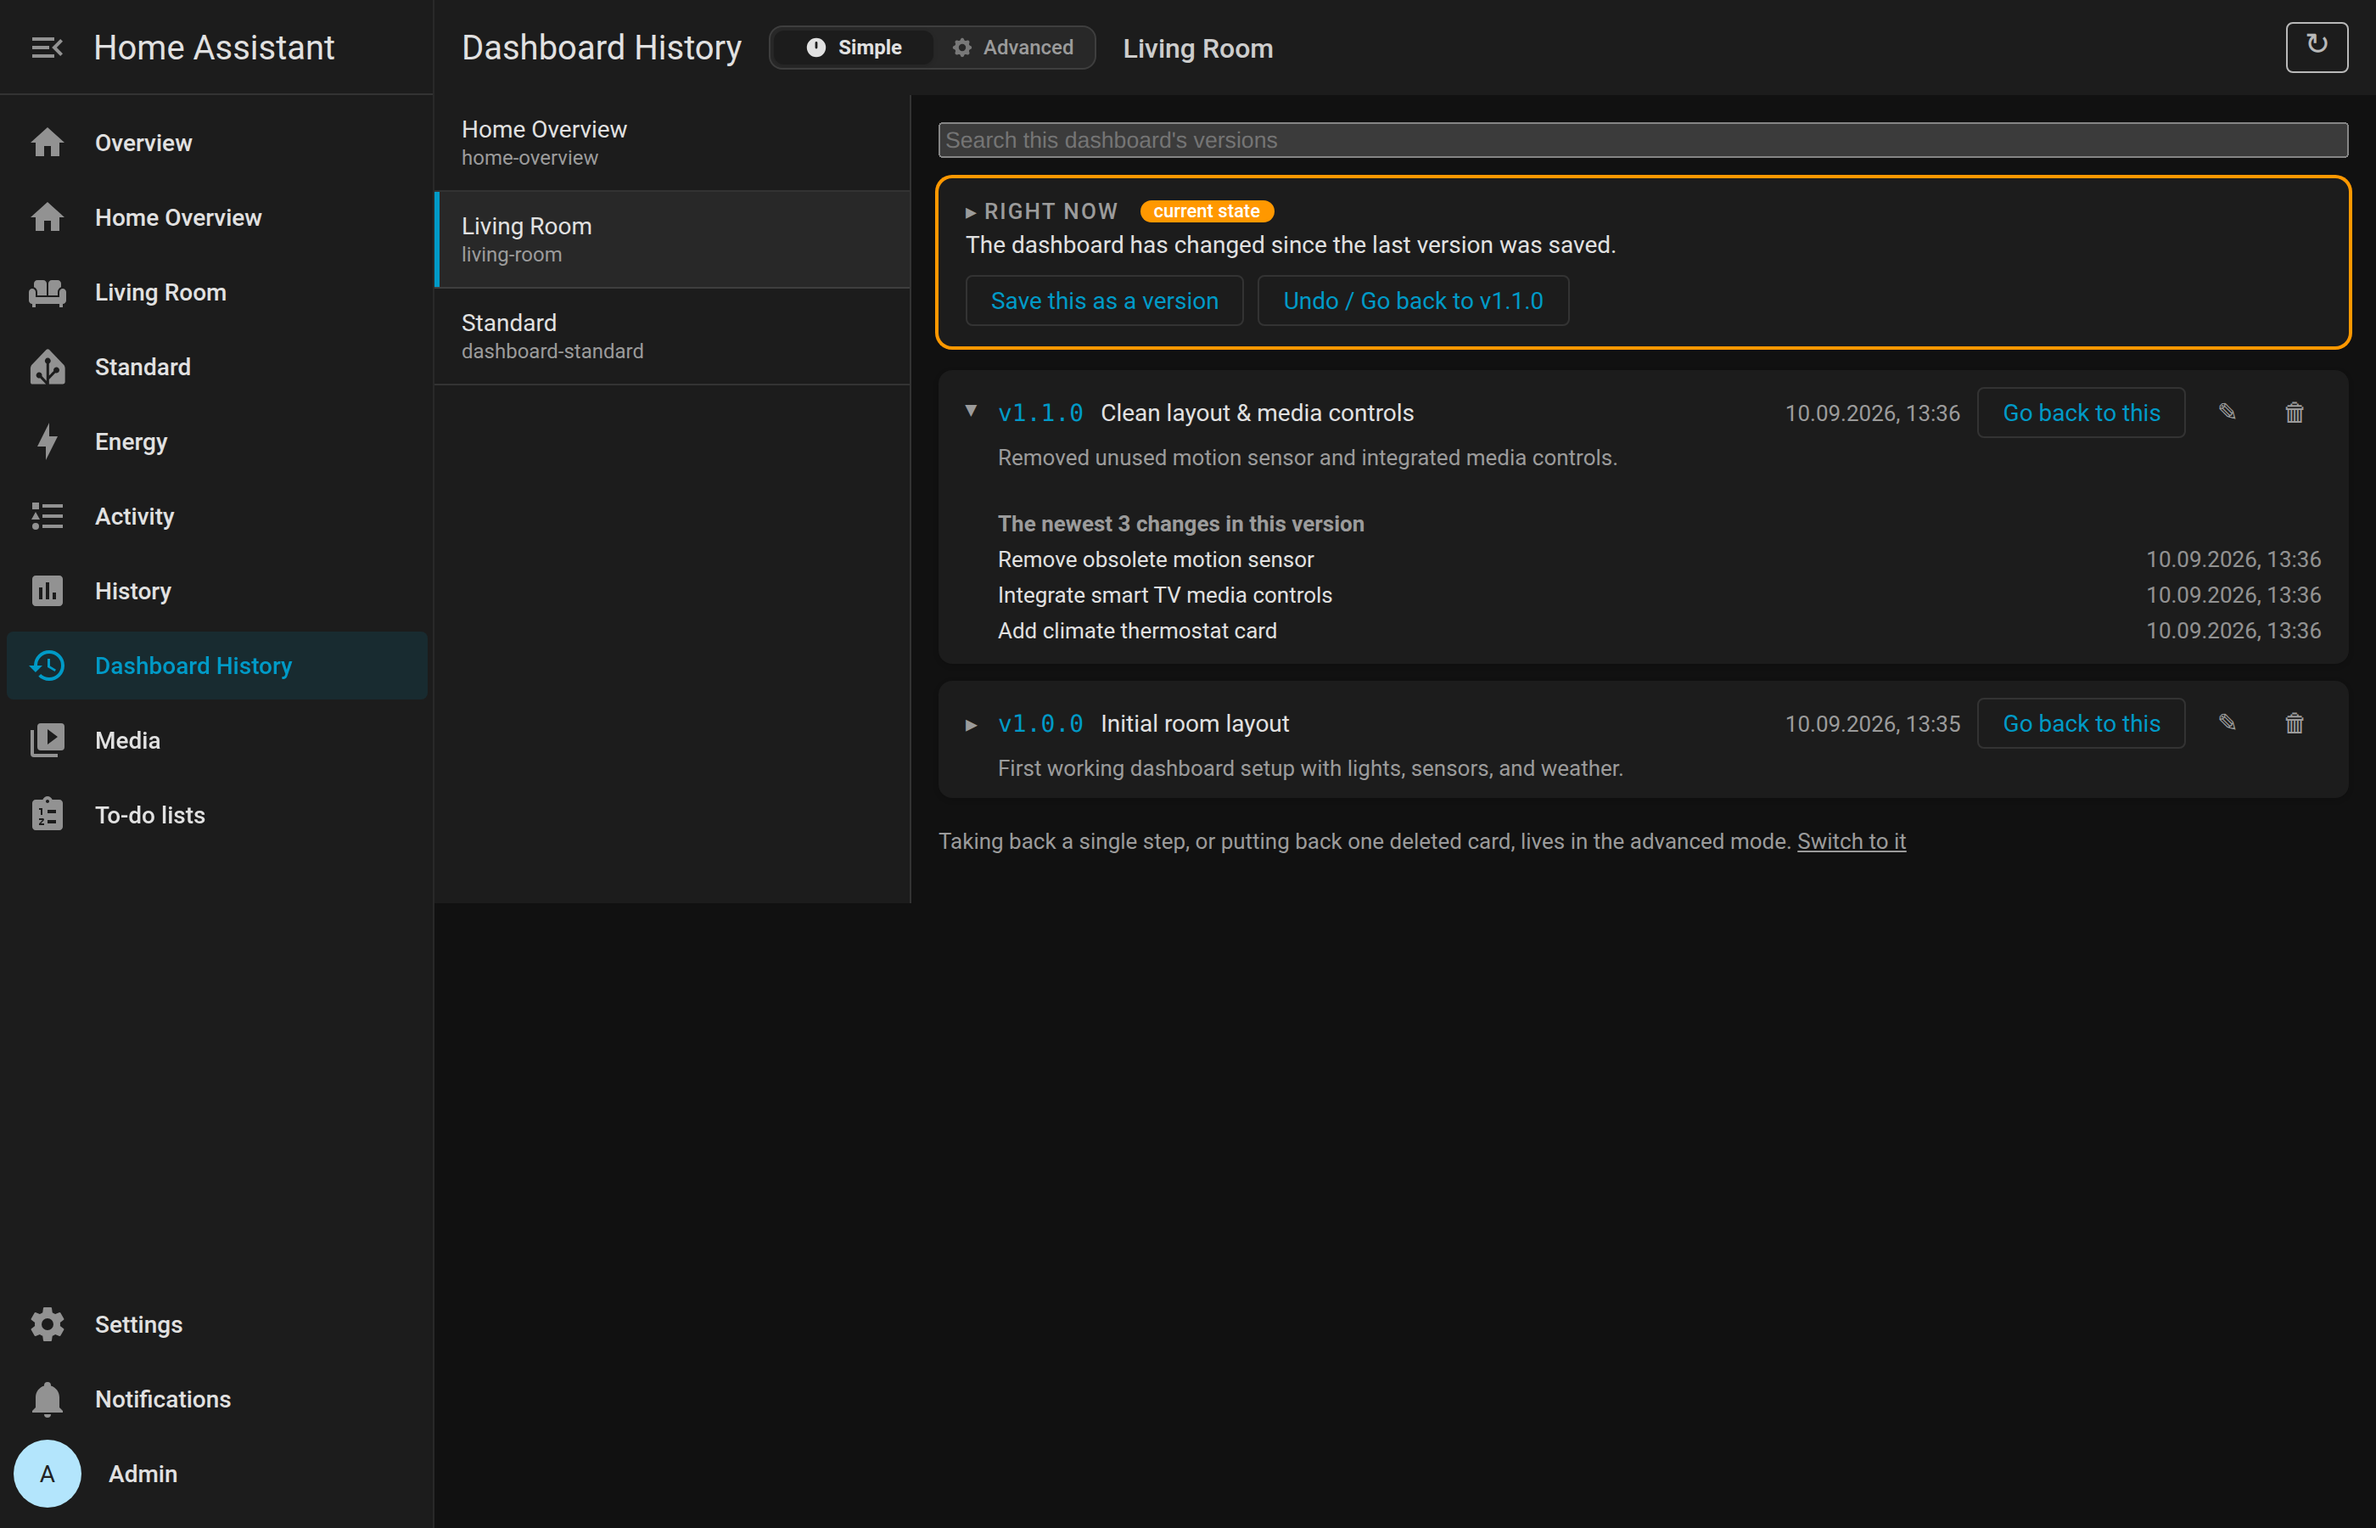
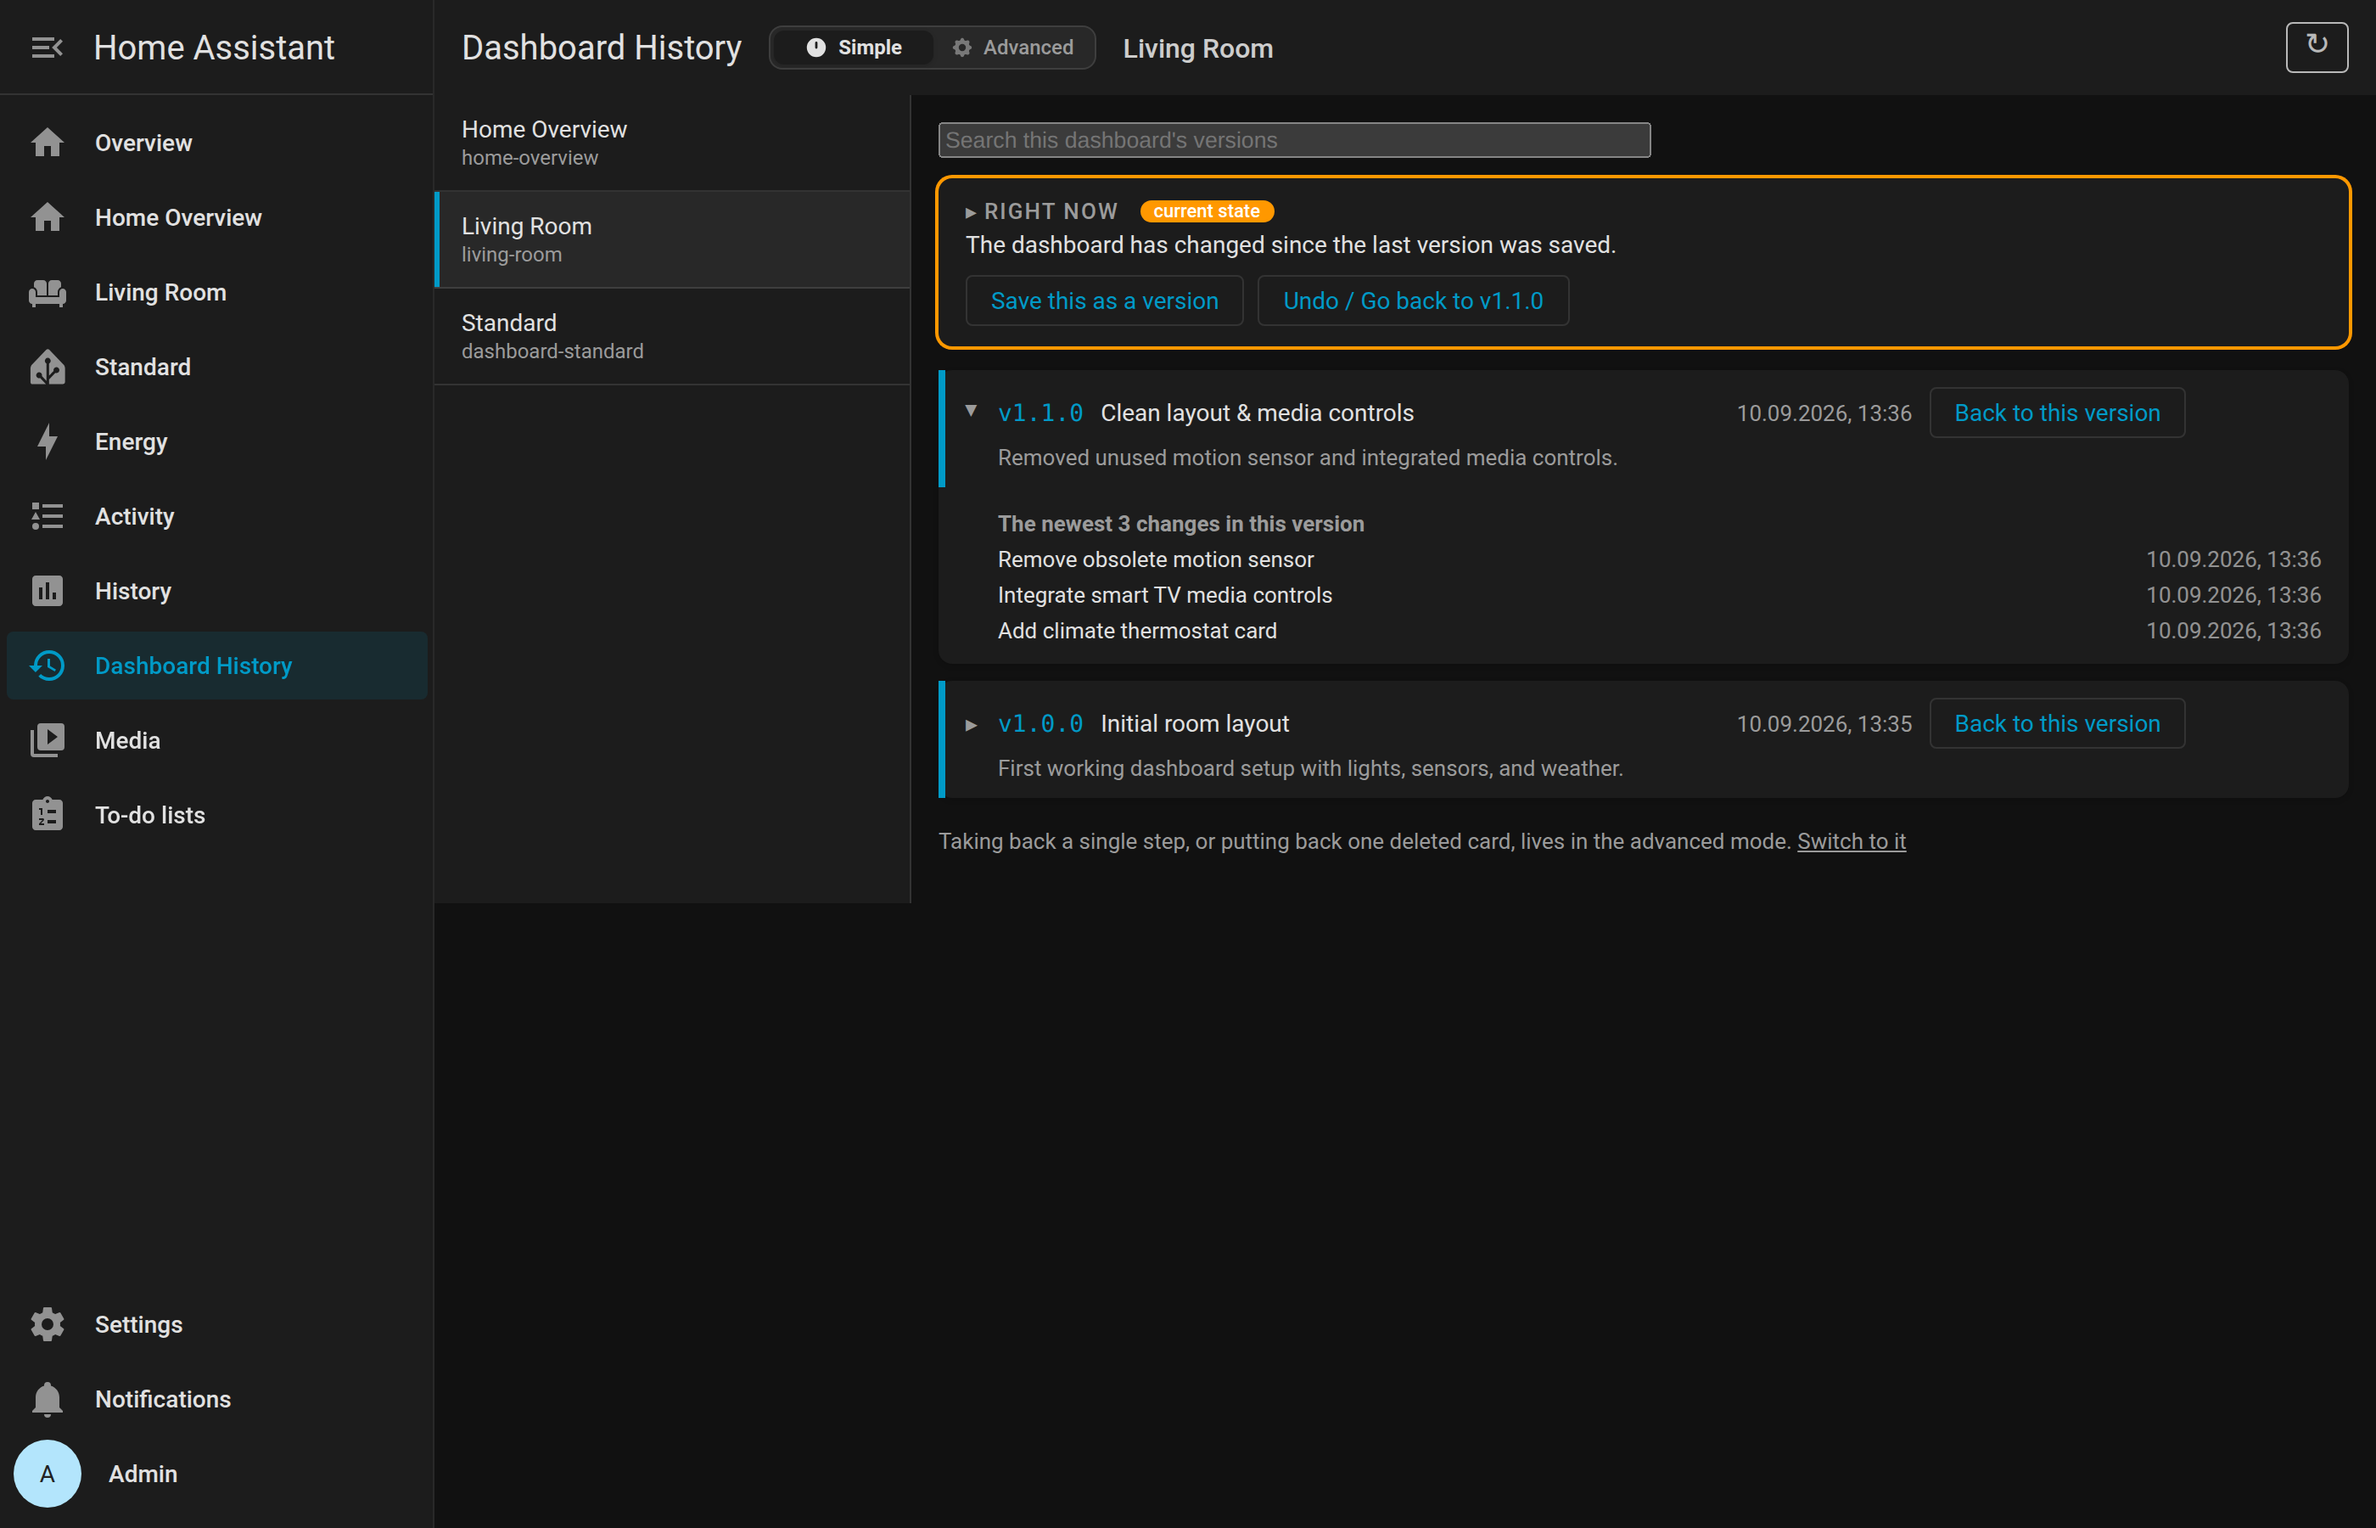
Photograph both the hover and the touch branch
Headless Chrome has no hover-capable pointing device, so every
screenshot this tool has ever taken was rendering the touch branch,
desktop ones included. Nobody noticed because only .pen lived in that
block; with the touch targets grown, a desktop picture would have
shown finger-sized controls.

Only a launch option moves it. Emulation.setEmulatedMedia accepts
hover and pointer and does nothing with them, and turning touch
emulation back off does not restore the hover branch in the page
already open - hence the narrow pass runs last, in both schemes.

Each shot now says which branch and which scheme it expects, and the
900px one measures that the sidebar really is docked. A picture that
proves nothing looks exactly like one that proves something.

Changed region(s): [[0.6836, 0.0622, 0.9943, 0.1244], [0.7457, 0.4667, 0.9011, 0.4978], [0.7457, 0.2489, 0.9011, 0.28]]

diff --git a/tools/capture_demo_screenshots.py b/tools/capture_demo_screenshots.py
@@ -163,6 +163,28 @@ class CDPSession:
         target.write_bytes(base64.b64decode(result["data"]))
         print(f"Captured: {target.name} ({len(result['data'])} bytes base64)")
 
+    async def expect_media(self, *, hover_none, scheme=None):
+        """Refuse to let a screenshot stand for something it does not show.
+
+        Which branch Chrome is in is not visible in the image, and the
+        answer surprised us once already: headless Chrome sits in the
+        touch branch unless it is launched out of it.
+
+        The colour scheme is asked here too, for a duller reason: these
+        passes are appended to one another, and a block that forgets to
+        set its own would quietly save a dark picture under a light name.
+        """
+        got = await self.js('matchMedia("(hover: none)").matches')
+        if got is not hover_none:
+            sys.exit(
+                f"expected (hover: none) to be {hover_none}, got {got} - "
+                "the screenshots would be of the wrong branch"
+            )
+        if scheme is not None:
+            dark = await self.js('matchMedia("(prefers-color-scheme: dark)").matches')
+            if dark is not (scheme == "dark"):
+                sys.exit(f"expected the {scheme} scheme, got dark={dark}")
+
 
 async def main():
     if shutil.which("google-chrome") is None:
@@ -179,6 +201,17 @@ async def main():
             "--no-first-run",
             "--no-default-browser-check",
             "--disable-extensions",
+            # Headless Chrome has no hover-capable pointing device, so
+            # `(hover: none)` matches by default - every screenshot taken
+            # so far has been rendering the touch branch, desktop ones
+            # included. Measured on 2026-09-17; unnoticed until now
+            # because only `.pen` lived in that block.
+            #
+            # There is no CDP call for this: `Emulation.setEmulatedMedia`
+            # accepts `hover` and `pointer` and does nothing with them,
+            # measured the same day. Only this launch option moves it.
+            "--blink-settings=availableHoverTypes=2,primaryHoverType=2,"
+            "availablePointerTypes=4,primaryPointerType=4",
             "--lang=en-US",
             "--window-size=1400,900",
             "about:blank",
@@ -221,6 +254,7 @@ async def main():
                     "mobile": False,
                 },
             )
+            await page.expect_media(hover_none=False)
 
             # Navigate to lovelace and set token
             print("Navigating to Lovelace and setting auth...")
@@ -376,6 +410,36 @@ async def main():
             print("Capturing 04-simple-mode-versions-light.png...")
             await page.shot("04-simple-mode-versions-light.png")
 
+            print("Capturing 11-docked-sidebar-900.png...")
+            await page.send(
+                "Emulation.setDeviceMetricsOverride",
+                {"width": 900, "height": 900, "deviceScaleFactor": 2, "mobile": False},
+            )
+            await asyncio.sleep(0.5)
+            await page.expect_media(hover_none=False, scheme="light")
+            # The whole point of this picture is that the panel is
+            # narrower than the window - a media query inside it would
+            # see 900 and be wrong. Measured rather than trusted: with a
+            # collapsed sidebar this would be an ordinary 900px shot and
+            # would prove nothing, while looking exactly the same.
+            room = await page.js(
+                f"(() => {{ const el = {ELEMENT};"
+                " return el ? Math.round(el.getBoundingClientRect().width) : null; })()"
+            )
+            print(f"    the panel has {room}px inside a 900px window")
+            if room is None or room >= 880:
+                sys.exit(
+                    f"the sidebar is not docked (panel {room}px of 900) - this shot is "
+                    "meant to show the case a media query gets wrong"
+                )
+            await page.shot("11-docked-sidebar-900.png")
+            # Back to the width the rest of the light pass was taken at,
+            # in case anything is appended after this.
+            await page.send(
+                "Emulation.setDeviceMetricsOverride",
+                {"width": 1400, "height": 900, "deviceScaleFactor": 2, "mobile": False},
+            )
+
             # -------------------------------------------------------------
             # DARK THEME
             # -------------------------------------------------------------
@@ -481,6 +545,64 @@ async def main():
 
             await page.js(f'{PANEL}.querySelector("dialog.compare").close("cancel")')
             await page.js(f"{PANEL}.querySelector('[data-compare-toggle]').click()")
+
+            # The narrow pass. Last, and not by preference: turning touch
+            # emulation off does not bring the hover branch back in the
+            # page already open - only a navigation does.
+            print("\n=== NARROW PASS (390x844) ===")
+            await page.send(
+                "Emulation.setDeviceMetricsOverride",
+                {"width": 390, "height": 844, "deviceScaleFactor": 2, "mobile": True},
+            )
+            await page.send(
+                "Emulation.setTouchEmulationEnabled",
+                {"enabled": True, "maxTouchPoints": 5},
+            )
+            await page.send("Page.navigate", {"url": f"{BASE}/dashboard-history"})
+            await page.settle('document.readyState === "complete"')
+            # readyState says the document arrived, not that the panel's
+            # modules did - they are fetched separately and drawn from a
+            # promise. The bar is the first thing `_render` puts down.
+            await page.settle(f'!!{PANEL}?.querySelector(".bar")')
+            await page.settle(f'{PANEL}?.querySelectorAll(".dash").length >= 2')
+
+            for scheme in ("light", "dark"):
+                await page.send(
+                    "Emulation.setEmulatedMedia",
+                    {"features": [{"name": "prefers-color-scheme", "value": scheme}]},
+                )
+                await asyncio.sleep(0.8)
+                await page.expect_media(hover_none=True, scheme=scheme)
+
+                # Driven through the panel rather than by clicking, the
+                # same way the two passes above do it: a click would
+                # leave which dashboard is showing up to whichever row
+                # happened to come first.
+                print(f"Capturing 09-narrow-list-{scheme}.png...")
+                await page.js(
+                    f"(() => {{ const p = {ELEMENT}; p._pane = 'list'; p._render(); }})()"
+                )
+                await page.settle(f'!!{PANEL}?.querySelector(".side .dash")')
+                await page.settle(f'!{PANEL}?.querySelector(".spin")')
+                await page.shot(f"09-narrow-list-{scheme}.png")
+
+                print(f"Capturing 10-narrow-detail-{scheme}.png...")
+                await page.js(f"""(async () => {{
+                    const p = {ELEMENT};
+                    await p._select("living-room");
+                    p._setMode("advanced");
+                    p._pane = "detail";
+                    p._render();
+                }})()""")
+                # All three, and each one answers a different doubt: that
+                # the history arrived, that nothing is still in flight,
+                # and that the column on screen is the one being named.
+                await page.settle(f'{PANEL}?.querySelectorAll(".change").length >= 3')
+                await page.settle(f'!{PANEL}?.querySelector(".spin")')
+                await page.settle(
+                    f"{ELEMENT}?.getAttribute('data-pane') === 'detail'"
+                )
+                await page.shot(f"10-narrow-detail-{scheme}.png")
 
             print("\nAll screenshots captured successfully!")
 
